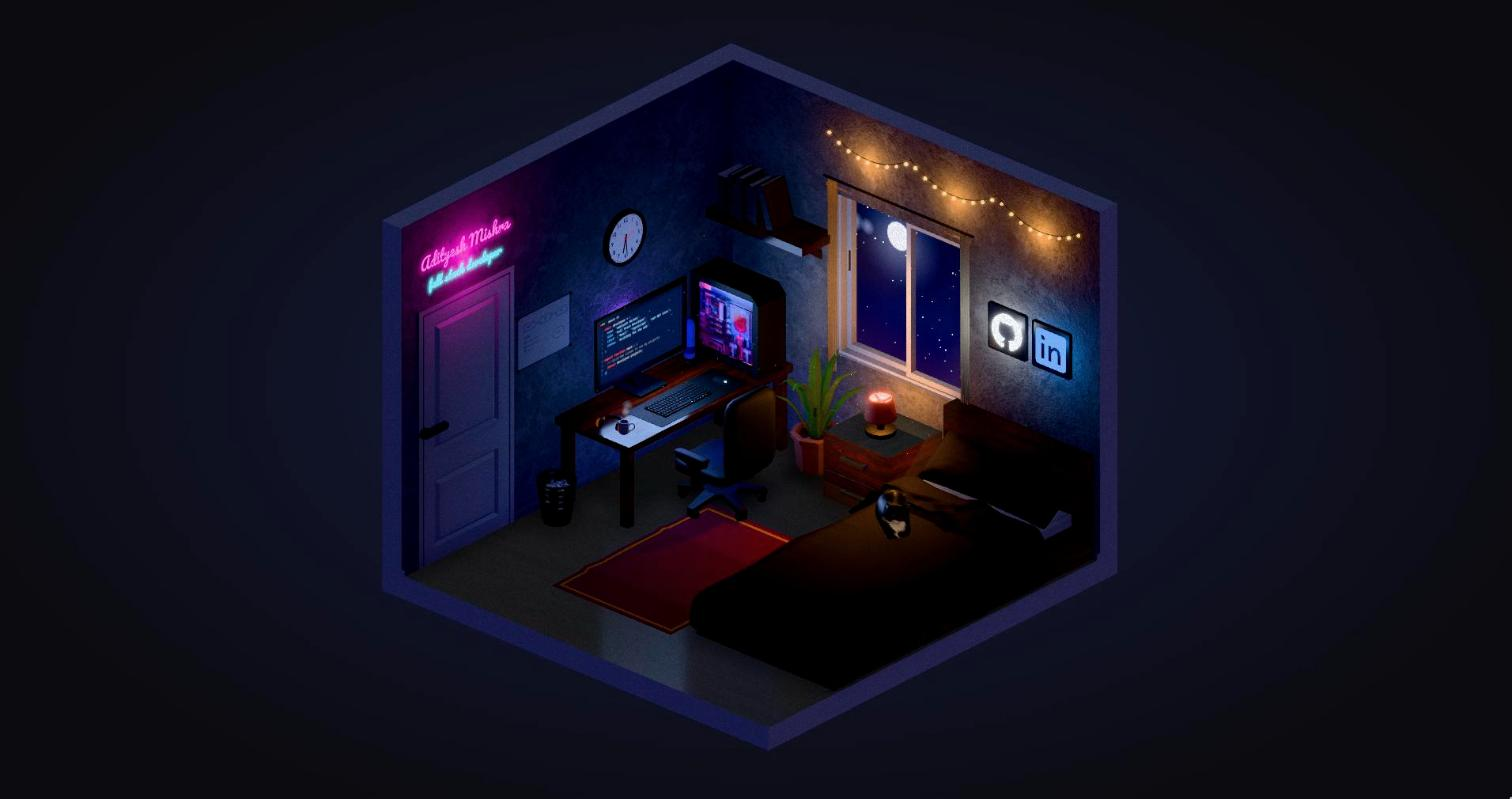
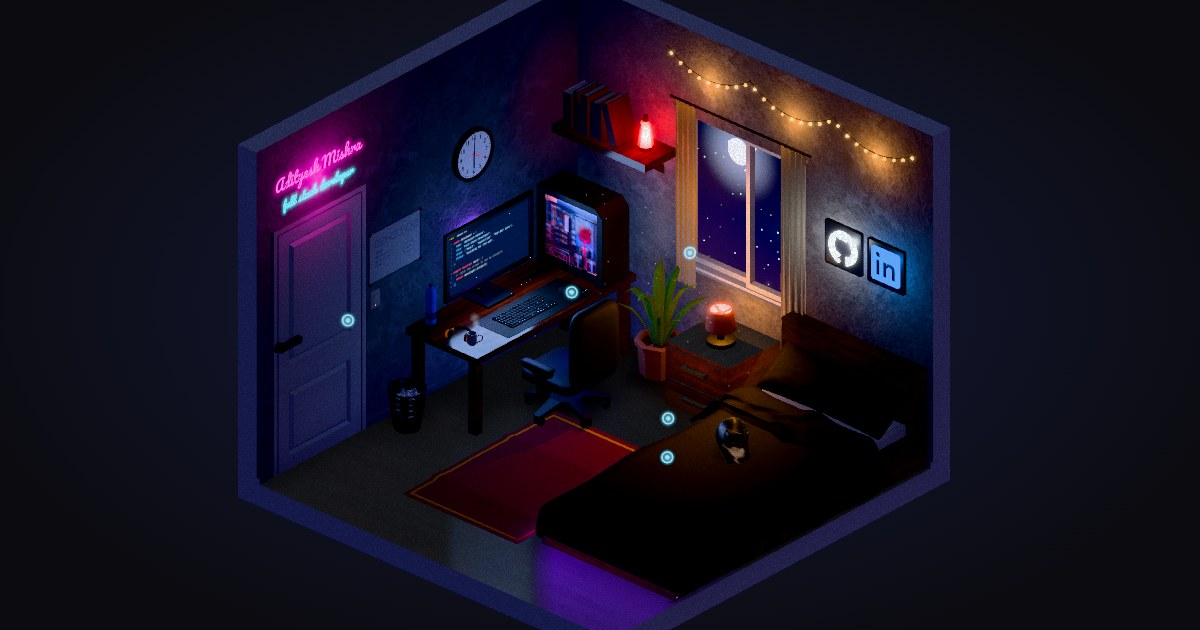
SEO and sharing: new preview image, data-driven description and structured data
- og-image.jpg retaken at 1200 x 630 from the current room at night, with the page glow behind it. Adds og:image size/type, og:locale and twitter:image:alt.
- Vite seo plugin: the meta description and JSON-LD (WebSite, ProfilePage, Person with job title, skills, education and profiles) are filled from src/data at build time.
- about.ts gains keySkills and education. The noscript text links the résumé.

diff --git a/index.html b/index.html
@@ -6,37 +6,33 @@
     <title>Adityesh Mishra | Full Stack Developer</title>
     <meta
       name="description"
-      content="Portfolio of Adityesh Mishra, full stack developer. Explore an interactive 3D room and click the monitor to see projects."
+      content="%SEO_DESCRIPTION%"
     />
     <meta name="author" content="Adityesh Mishra" />
     <meta name="theme-color" content="#0b0b10" />
     <link rel="icon" type="image/svg+xml" href="/favicon.svg" />
     <link rel="canonical" href="%VITE_SITE_URL%/" />
 
-    <!-- Link previews (LinkedIn, Slack, WhatsApp, X) -->
+    <!-- Link previews (LinkedIn, Slack, WhatsApp, X). og-image.jpg is 1200 x 630. -->
     <meta property="og:type" content="website" />
     <meta property="og:site_name" content="Adityesh Mishra" />
+    <meta property="og:locale" content="en_US" />
     <meta property="og:title" content="Adityesh Mishra | Full Stack Developer" />
-    <meta property="og:description" content="An interactive 3D room: click the monitor to see my projects." />
+    <meta property="og:description" content="Step into my late-night 3D room: the monitor shows my projects, the whiteboard tells you about me." />
     <meta property="og:url" content="%VITE_SITE_URL%/" />
     <meta property="og:image" content="%VITE_SITE_URL%/og-image.jpg" />
-    <meta property="og:image:alt" content="An isometric, dimly lit bedroom with a glowing monitor, neon name sign and string lights." />
+    <meta property="og:image:width" content="1200" />
+    <meta property="og:image:height" content="630" />
+    <meta property="og:image:type" content="image/jpeg" />
+    <meta property="og:image:alt" content="An isometric, dimly lit bedroom with a glowing monitor, a whiteboard, a cat on the bed, neon signs and string lights." />
     <meta name="twitter:card" content="summary_large_image" />
     <meta name="twitter:title" content="Adityesh Mishra | Full Stack Developer" />
-    <meta name="twitter:description" content="An interactive 3D room: click the monitor to see my projects." />
+    <meta name="twitter:description" content="Step into my late-night 3D room: the monitor shows my projects, the whiteboard tells you about me." />
     <meta name="twitter:image" content="%VITE_SITE_URL%/og-image.jpg" />
+    <meta name="twitter:image:alt" content="An isometric, dimly lit bedroom with a glowing monitor, a whiteboard, a cat on the bed, neon signs and string lights." />
 
-    <!-- Structured data for search engines -->
-    <script type="application/ld+json">
-      {
-        "@context": "https://schema.org",
-        "@type": "Person",
-        "name": "Adityesh Mishra",
-        "jobTitle": "Full Stack Developer",
-        "url": "%VITE_SITE_URL%/",
-        "sameAs": ["https://github.com/Adityesh", "https://www.linkedin.com/in/adityesh-mishra-b3446716b/"]
-      }
-    </script>
+    <!-- Structured data for search engines: filled from src/data by the seo plugin (vite.config.ts) -->
+    <!-- seo:structured-data -->
   </head>
   <body>
     <div id="root"></div>
@@ -44,7 +40,8 @@
       <p style="color:#ddd;font-family:sans-serif;padding:24px">
         Adityesh Mishra, full stack developer. This site needs JavaScript for its 3D room. Find me on
         <a href="https://github.com/Adityesh" style="color:#7dd3fc">GitHub</a> and
-        <a href="https://www.linkedin.com/in/adityesh-mishra-b3446716b/" style="color:#7dd3fc">LinkedIn</a>.
+        <a href="https://www.linkedin.com/in/adityesh-mishra-b3446716b/" style="color:#7dd3fc">LinkedIn</a>, or read my
+        <a href="https://drive.google.com/file/d/1kB99zaDN6x77a6003HkJtkNYq_i5Slkf/view?usp=sharing" style="color:#7dd3fc">résumé</a>.
       </p>
     </noscript>
     <script type="module" src="/src/main.tsx"></script>

diff --git a/vite.config.ts b/vite.config.ts
@@ -1,10 +1,62 @@
 import tailwindcss from '@tailwindcss/vite'
 import react from '@vitejs/plugin-react'
-import { defineConfig } from 'vite'
+import { defineConfig, loadEnv, type Plugin } from 'vite'
+import { about } from './src/data/about.ts'
+import { profile } from './src/data/profile.ts'
+import { socials } from './src/data/socials.ts'
+
+const titleCase = (text: string) => text.replace(/\b\w/g, (letter) => letter.toUpperCase())
+const escapeAttribute = (text: string) => text.replace(/&/g, '&amp;').replace(/"/g, '&quot;').replace(/</g, '&lt;')
+
+/**
+ * Fills the page's search/preview text and structured data (index.html) from src/data, so they always match what the
+ * site shows: %SEO_DESCRIPTION% and <!-- seo:structured-data --> (a schema.org ProfilePage about a Person).
+ */
+function seo(siteUrl: string): Plugin {
+  const url = `${siteUrl}/`
+  const role = titleCase(profile.role)
+  const description = `${profile.name}, ${profile.role} (${about.keySkills.join(', ')}). Explore my 3D room: projects on the monitor, about me on the whiteboard.`
+  const structuredData = {
+    '@context': 'https://schema.org',
+    '@graph': [
+      { '@type': 'WebSite', '@id': `${url}#website`, url, name: profile.name, inLanguage: 'en' },
+      {
+        '@type': 'ProfilePage',
+        '@id': `${url}#page`,
+        url,
+        name: `${profile.name} | ${role}`,
+        description,
+        isPartOf: { '@id': `${url}#website` },
+        mainEntity: { '@id': `${url}#person` },
+        primaryImageOfPage: `${url}og-image.jpg`,
+      },
+      {
+        '@type': 'Person',
+        '@id': `${url}#person`,
+        name: profile.name,
+        jobTitle: role,
+        description: about.headline,
+        url,
+        knowsAbout: about.skills.flatMap((group) => group.skills),
+        alumniOf: { '@type': 'CollegeOrUniversity', name: about.education.school },
+        sameAs: socials.map((social) => social.url),
+      },
+    ],
+  }
+  // Escape '<' so nothing in the data can close the script tag.
+  const json = JSON.stringify(structuredData, null, 2).replace(/</g, '\\u003c')
+  return {
+    name: 'seo-from-data',
+    transformIndexHtml: (html) =>
+      html
+        .replaceAll('%SEO_DESCRIPTION%', escapeAttribute(description))
+        .replace('<!-- seo:structured-data -->', `<script type="application/ld+json">\n${json}\n    </script>`),
+  }
+}
 
 // https://vite.dev/config/
-export default defineConfig({
-  plugins: [react(), tailwindcss()],
+export default defineConfig(({ mode }) => ({
+  plugins: [react(), tailwindcss(), seo(loadEnv(mode, process.cwd(), 'VITE_').VITE_SITE_URL)],
   build: {
     // three.js alone is ~1 MB minified (~300 KB gzipped); it's lazy-loaded and cached, so don't warn about it.
     chunkSizeWarningLimit: 1100,
@@ -26,4 +78,4 @@ export default defineConfig({
       },
     },
   },
-})
+}))

diff --git a/src/data/about.ts b/src/data/about.ts
@@ -1,4 +1,5 @@
-// "About me" content, shown on the whiteboard (tap it in the room) and on the fallback page.
+// "About me" content, shown on the whiteboard (tap it in the room) and on the fallback page. Also feeds the page's
+// description and structured data (seo plugin in vite.config.ts).
 // Taken from the previous 2D portfolio (feat/v2-rewrite).
 
 export type SkillGroup = {
@@ -22,5 +23,8 @@ export const about = {
     { label: 'Testing & tools', skills: ['Jest', 'React Testing Library', 'Storybook', 'Postman', 'Git'] },
     { label: 'Cloud & DevOps', skills: ['Docker', 'Kubernetes', 'Azure', 'Linux', 'CI/CD'] },
   ] satisfies SkillGroup[],
+  /** A few headline skills for the page description (search results and link previews). */
+  keySkills: ['React', 'TypeScript', 'ASP.NET Core', 'Node.js'],
+  education: { school: 'College of Engineering and Technology, Bhubaneswar', field: 'Computer Science & Engineering' },
   resumeUrl: 'https://drive.google.com/file/d/1kB99zaDN6x77a6003HkJtkNYq_i5Slkf/view?usp=sharing',
 }

diff --git a/CLAUDE.md b/CLAUDE.md
@@ -112,7 +112,7 @@ src/
     projects.ts             # all project data
     socials.ts              # social links, positions, colours, SVG paths (Simple Icons)
     profile.ts              # name and role
-    about.ts                # bio, skill groups and résumé link (whiteboard + fallback page)
+    about.ts                # bio, skill groups, key skills, education and résumé link (whiteboard, fallback page, SEO)
     credits.ts              # third-party attributions shown in the settings menu
     screenCode.ts           # code snippet typed out on the in-room monitor
   hooks/
@@ -142,8 +142,10 @@ public/
   hdri/night_256.hdr        # self-hosted environment map
   fonts/                    # Pacifico (name sign) and Kalam (whiteboard handwriting, latin woff2), both SIL OFL
   sounds/                   # CC0 meow.mp3 and lofi.mp3 (see sounds/CREDITS.txt)
-  og-image.jpg, favicon.svg, robots.txt
+  og-image.jpg              # 1200 x 630 link preview: the room at night (?time=23), page glow behind it, UI hidden
+  favicon.svg, robots.txt
 .env.development / .env.production  # VITE_SITE_URL, used in index.html for canonical, Open Graph and JSON-LD
+vite.config.ts              # chunking, plus the seo plugin: fills %SEO_DESCRIPTION% and the JSON-LD (WebSite, ProfilePage, Person) in index.html from src/data
 vercel.json                 # cache and security headers
 ```
 
@@ -249,4 +251,5 @@ The original build order (all done, 22 commits on `feat/3d-portfolio`):
 - When changing camera positions or light intensities, state the old and new values so they are easy to tune.
 - Run `npm run build` (and `npm run lint`) after structural changes to catch type errors.
 - If the production URL changes, update `.env.production`.
+- The meta description and structured data come from `data/profile.ts`, `data/about.ts` and `data/socials.ts` at build time (keep the description under ~155 characters). Retake `og-image.jpg` when the room changes noticeably: 1200 x 630 viewport, `?time=23`, DOM UI hidden, read the WebGL canvas in a rAF right after a frame and draw it over the body gradient.
 - Third-party models: room (CC BY 4.0, amurin; credited in `data/credits.ts`, shown in the settings menu), wall clock (Sketchfab Standard, hitheredearjohn), and CC0 props (rug, mug, plant, whiteboard, cat, headphones, curtains, lava lamp; no credit needed). Sound: `public/sounds/meow.mp3` and `public/sounds/lofi.mp3`, supplied by the owner, both CC0 (`public/sounds/CREDITS.txt`). `lofi.mp3` is 4.4 MB at 256 kbps (streamed only once the music is switched on); re-encoding to ~128 kbps would halve it. **Open item:** the owner must confirm that the clock's license allows serving the GLB on a public site. The site is already deployed. Source files live in `models-src/` (gitignored, not present in this checkout).
